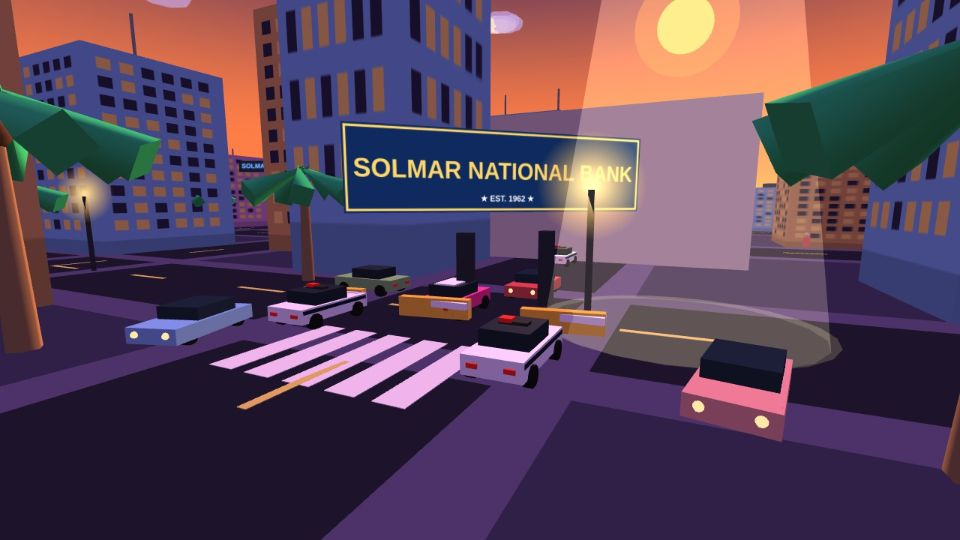
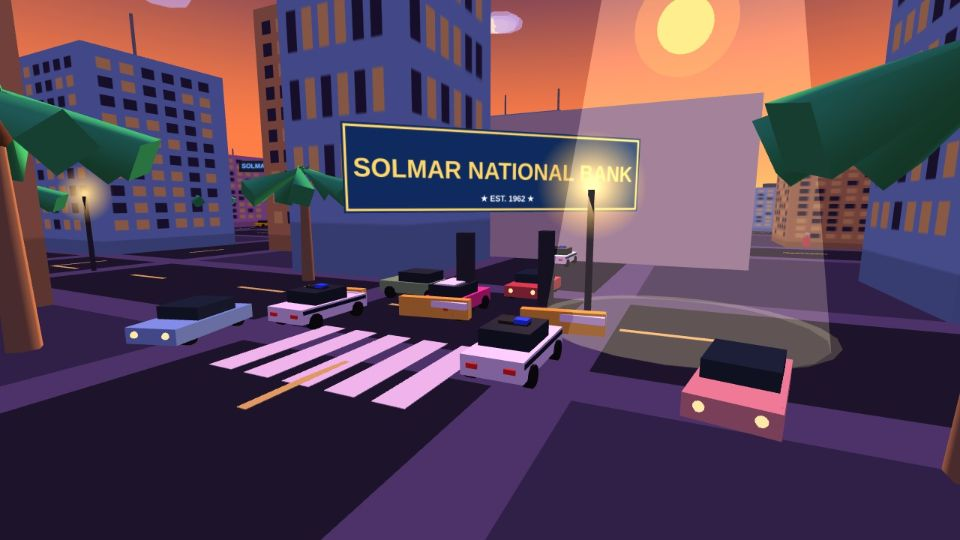
r10 amend: traffic spawn juga di onfoot/mission (jalan tidak kosong), hapus 4-map.jpg (bukan scene grading)

Changed region(s): [[0.3125, 0.4741, 0.4688, 0.563], [0.5, 0.563, 0.5625, 0.6222], [0.25, 0.3852, 0.2812, 0.4148]]

diff --git a/game/player.js b/game/player.js
@@ -194,7 +194,9 @@ else if(SB.vehicles&&SB.vehicles.update)SB.vehicles.update(h);}
 if(SB.input&&SB.input.mouse&&SB.input.mouse.down&&P._cool<=0){
 P.fire();P._cool=WEAPONS[P.weapon].rate;}
 if(SB.vehicles&&SB.vehicles._trafficTick)SB.vehicles._trafficTick(D);
-if(SB.state.preset==='cover'&&!SB._b2traf&&SB.vehicles&&SB.vehicles.spawnTraffic){
+if((SB.state.preset==='cover'||SB.state.preset==='onfoot'||SB.state.preset==='mission')&&!SB._b2traf&&SB.vehicles&&SB.vehicles.spawnTraffic){
+// r10 integrator: traffic hanya spawn di cover (r9) -> jalan onfoot/mission
+// kosong, pixel-diff ~0. Sekarang spawn juga di onfoot/mission.
 SB._b2traf=true;SB.vehicles.spawnTraffic(24);}
 if(P.health<=0&&!P._wasted){P._wasted=true;
 if(SB.police&&SB.police.wasted)SB.police.wasted();}};
